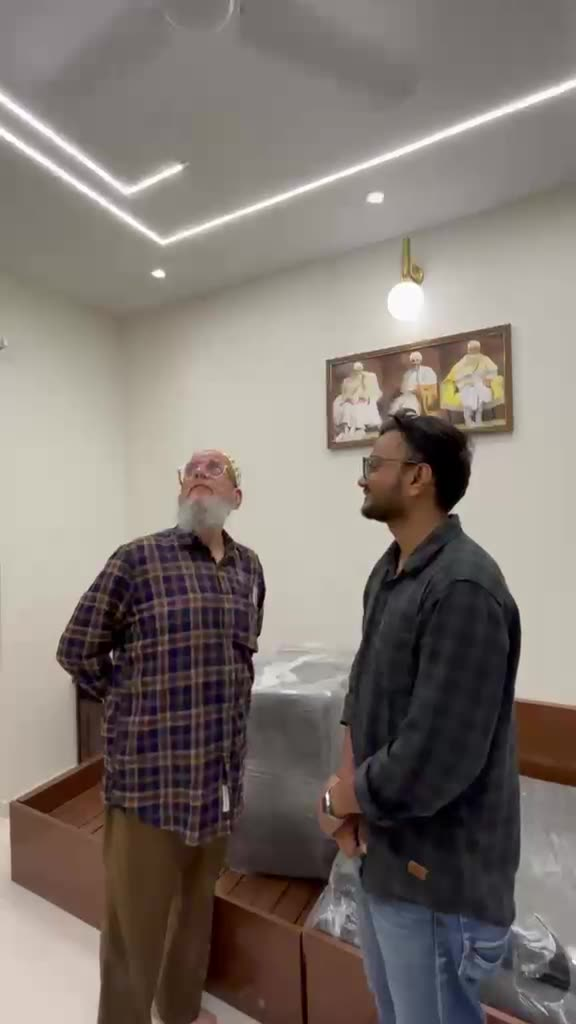
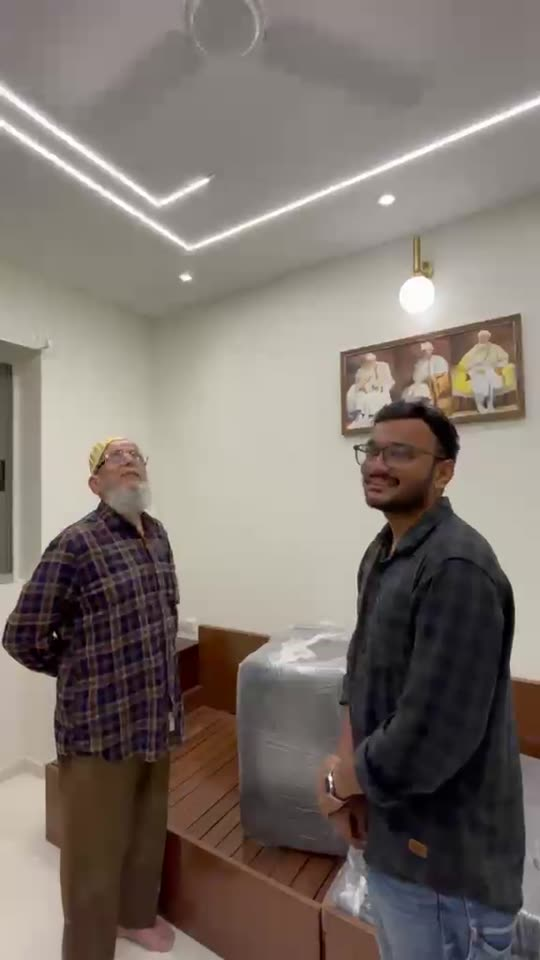
Redesign testimonials as matching cards beside a framed video
Claude-Session: https://claude.ai/code/session_01SMGxxPdBYfJtCtKfEoa5Xs

diff --git a/src/app/page.tsx b/src/app/page.tsx
@@ -3,6 +3,8 @@ import Link from "next/link";
 import type { Metadata } from "next";
 import { Hero } from "@/components/Hero";
 import { ClosingCta } from "@/components/ClosingCta";
+import { Fragment } from "react";
+import { TestimonialVideo } from "@/components/TestimonialVideo";
 import { contact, home, services, steps, testimonials } from "@/lib/content";
 import { categoryLabels, projects } from "@/lib/projects";
 
@@ -167,51 +169,42 @@ export default function HomePage() {
           <h2 id="testimonials-title" className="section-title mb-10 md:mb-14">
             Testimonials
           </h2>
-          <ul className="grid gap-12">
-            {testimonials.map((t) => (
-              <li key={t.name + t.project}>
-                <figure className="grid gap-6 border-l-4 border-[var(--accent)] pl-6 md:grid-cols-[minmax(0,5fr)_minmax(0,7fr)] md:gap-12 md:pl-10">
-                  {t.video ? (
-                    <video
-                      className="aspect-[9/16] w-full max-w-[320px] bg-[var(--fg)] object-cover"
-                      controls
-                      playsInline
-                      preload="none"
-                      poster={t.video.poster}
-                      aria-label={`Video testimonial from ${t.name}`}
+          <div className="grid gap-6 md:grid-cols-[minmax(0,5fr)_minmax(0,8fr)] md:gap-8">
+            {testimonials.map((t, i) => {
+              // Phone order: each quote, with its video (if any) right before it.
+              const base = i * 2 + 2;
+              return (
+                <Fragment key={t.name + t.project}>
+                  {t.video && (
+                    <div
+                      style={{ order: base - 1 }}
+                      className="md:!order-none md:col-start-1 md:row-span-2 md:row-start-1"
                     >
-                      <source src={t.video.src} type="video/mp4" />
-                      <track kind="captions" src={t.video.captions} srcLang="en" label="English" default />
-                    </video>
-                  ) : (
+                      <TestimonialVideo {...t.video} name={t.name} project={t.project} />
+                    </div>
+                  )}
+                  <figure
+                    style={{ order: base }}
+                    className="flex flex-col gap-5 border-t-4 border-[var(--accent)] bg-[var(--bg)] p-6 md:!order-none md:col-start-2 md:p-8"
+                  >
                     <p
                       aria-hidden="true"
-                      className="font-[family-name:var(--font-display)] text-4xl uppercase leading-[1.05] md:text-6xl"
+                      className="font-[family-name:var(--font-display)] text-3xl uppercase leading-[1.05] md:text-4xl"
                     >
                       &ldquo;{t.highlight}&rdquo;
                     </p>
-                  )}
-                  <div className="flex flex-col gap-6">
-                    {t.video && (
-                      <p
-                        aria-hidden="true"
-                        className="font-[family-name:var(--font-display)] text-4xl uppercase leading-[1.05] md:text-6xl"
-                      >
-                        &ldquo;{t.highlight}&rdquo;
-                      </p>
-                    )}
-                    <blockquote className="prose-col text-lg">
+                    <blockquote className="text-base md:text-lg">
                       <p>&ldquo;{t.quote}&rdquo;</p>
                     </blockquote>
-                    <figcaption className="text-sm">
+                    <figcaption className="mt-auto text-sm">
                       <span className="font-semibold">{t.name}</span>
                       <span className="text-[var(--muted)]"> · {t.project}</span>
                     </figcaption>
-                  </div>
-                </figure>
-              </li>
-            ))}
-          </ul>
+                  </figure>
+                </Fragment>
+              );
+            })}
+          </div>
         </div>
       </section>
 

diff --git a/src/components/TestimonialVideo.tsx b/src/components/TestimonialVideo.tsx
@@ -1,0 +1,67 @@
+"use client";
+
+import { useRef, useState } from "react";
+
+type Props = {
+  src: string;
+  poster: string;
+  captions: string;
+  name: string;
+  project: string;
+  duration: string;
+};
+
+// Portrait client video in a framed panel. Shows the poster with a large play
+// button; the native controls appear only once it is playing.
+export function TestimonialVideo({ src, poster, captions, name, project, duration }: Props) {
+  const ref = useRef<HTMLVideoElement>(null);
+  const [started, setStarted] = useState(false);
+
+  function play() {
+    setStarted(true);
+    void ref.current?.play();
+  }
+
+  return (
+    <figure className="flex h-full flex-col bg-[var(--fg)]">
+      <div className="relative aspect-[3/4] w-full overflow-hidden md:aspect-auto md:min-h-0 md:flex-1">
+        <video
+          ref={ref}
+          className="absolute inset-0 h-full w-full object-cover"
+          controls={started}
+          playsInline
+          preload="none"
+          poster={poster}
+          aria-label={`Video testimonial from ${name}`}
+        >
+          <source src={src} type="video/mp4" />
+          <track kind="captions" src={captions} srcLang="en" label="English" default />
+        </video>
+        {!started && (
+          <button
+            type="button"
+            onClick={play}
+            className="group absolute inset-0 flex items-center justify-center bg-gradient-to-t from-black/45 via-transparent to-transparent"
+            aria-label={`Play video testimonial from ${name}`}
+          >
+            <span className="flex h-20 w-20 items-center justify-center rounded-full bg-[var(--accent)] text-[var(--on-accent)] shadow-lg transition-transform group-hover:scale-105 group-focus-visible:scale-105">
+              <svg viewBox="0 0 24 24" className="ml-1 h-8 w-8" fill="currentColor" aria-hidden="true">
+                <path d="M8 5.5v13l11-6.5z" />
+              </svg>
+            </span>
+          </button>
+        )}
+      </div>
+      <figcaption className="flex items-center justify-between gap-4 px-5 py-4 text-sm text-[var(--bg)]">
+        <span>
+          <span className="font-semibold">{name}</span>
+          <span className="opacity-70"> · {project}</span>
+        </span>
+        <span className="shrink-0 opacity-70">
+          {duration}
+          <span className="hidden sm:inline"> · English captions</span>
+        </span>
+      </figcaption>
+    </figure>
+  );
+}

diff --git a/src/lib/content.ts b/src/lib/content.ts
@@ -79,7 +79,7 @@ export type Testimonial = {
   quote: string;
   name: string;
   project: string;
-  video?: { src: string; poster: string; captions: string };
+  video?: { src: string; poster: string; captions: string; duration: string };
 };
 
 export const testimonials: Testimonial[] = [
@@ -102,6 +102,7 @@ export const testimonials: Testimonial[] = [
       poster: "/images/testimonials/client-room-video-poster.jpg",
       // English captions, machine-translated from Gujarati/Hindi. Check before launch.
       captions: "/images/testimonials/client-room-video.en.vtt",
+      duration: "0:37",
     },
   },
 ];
